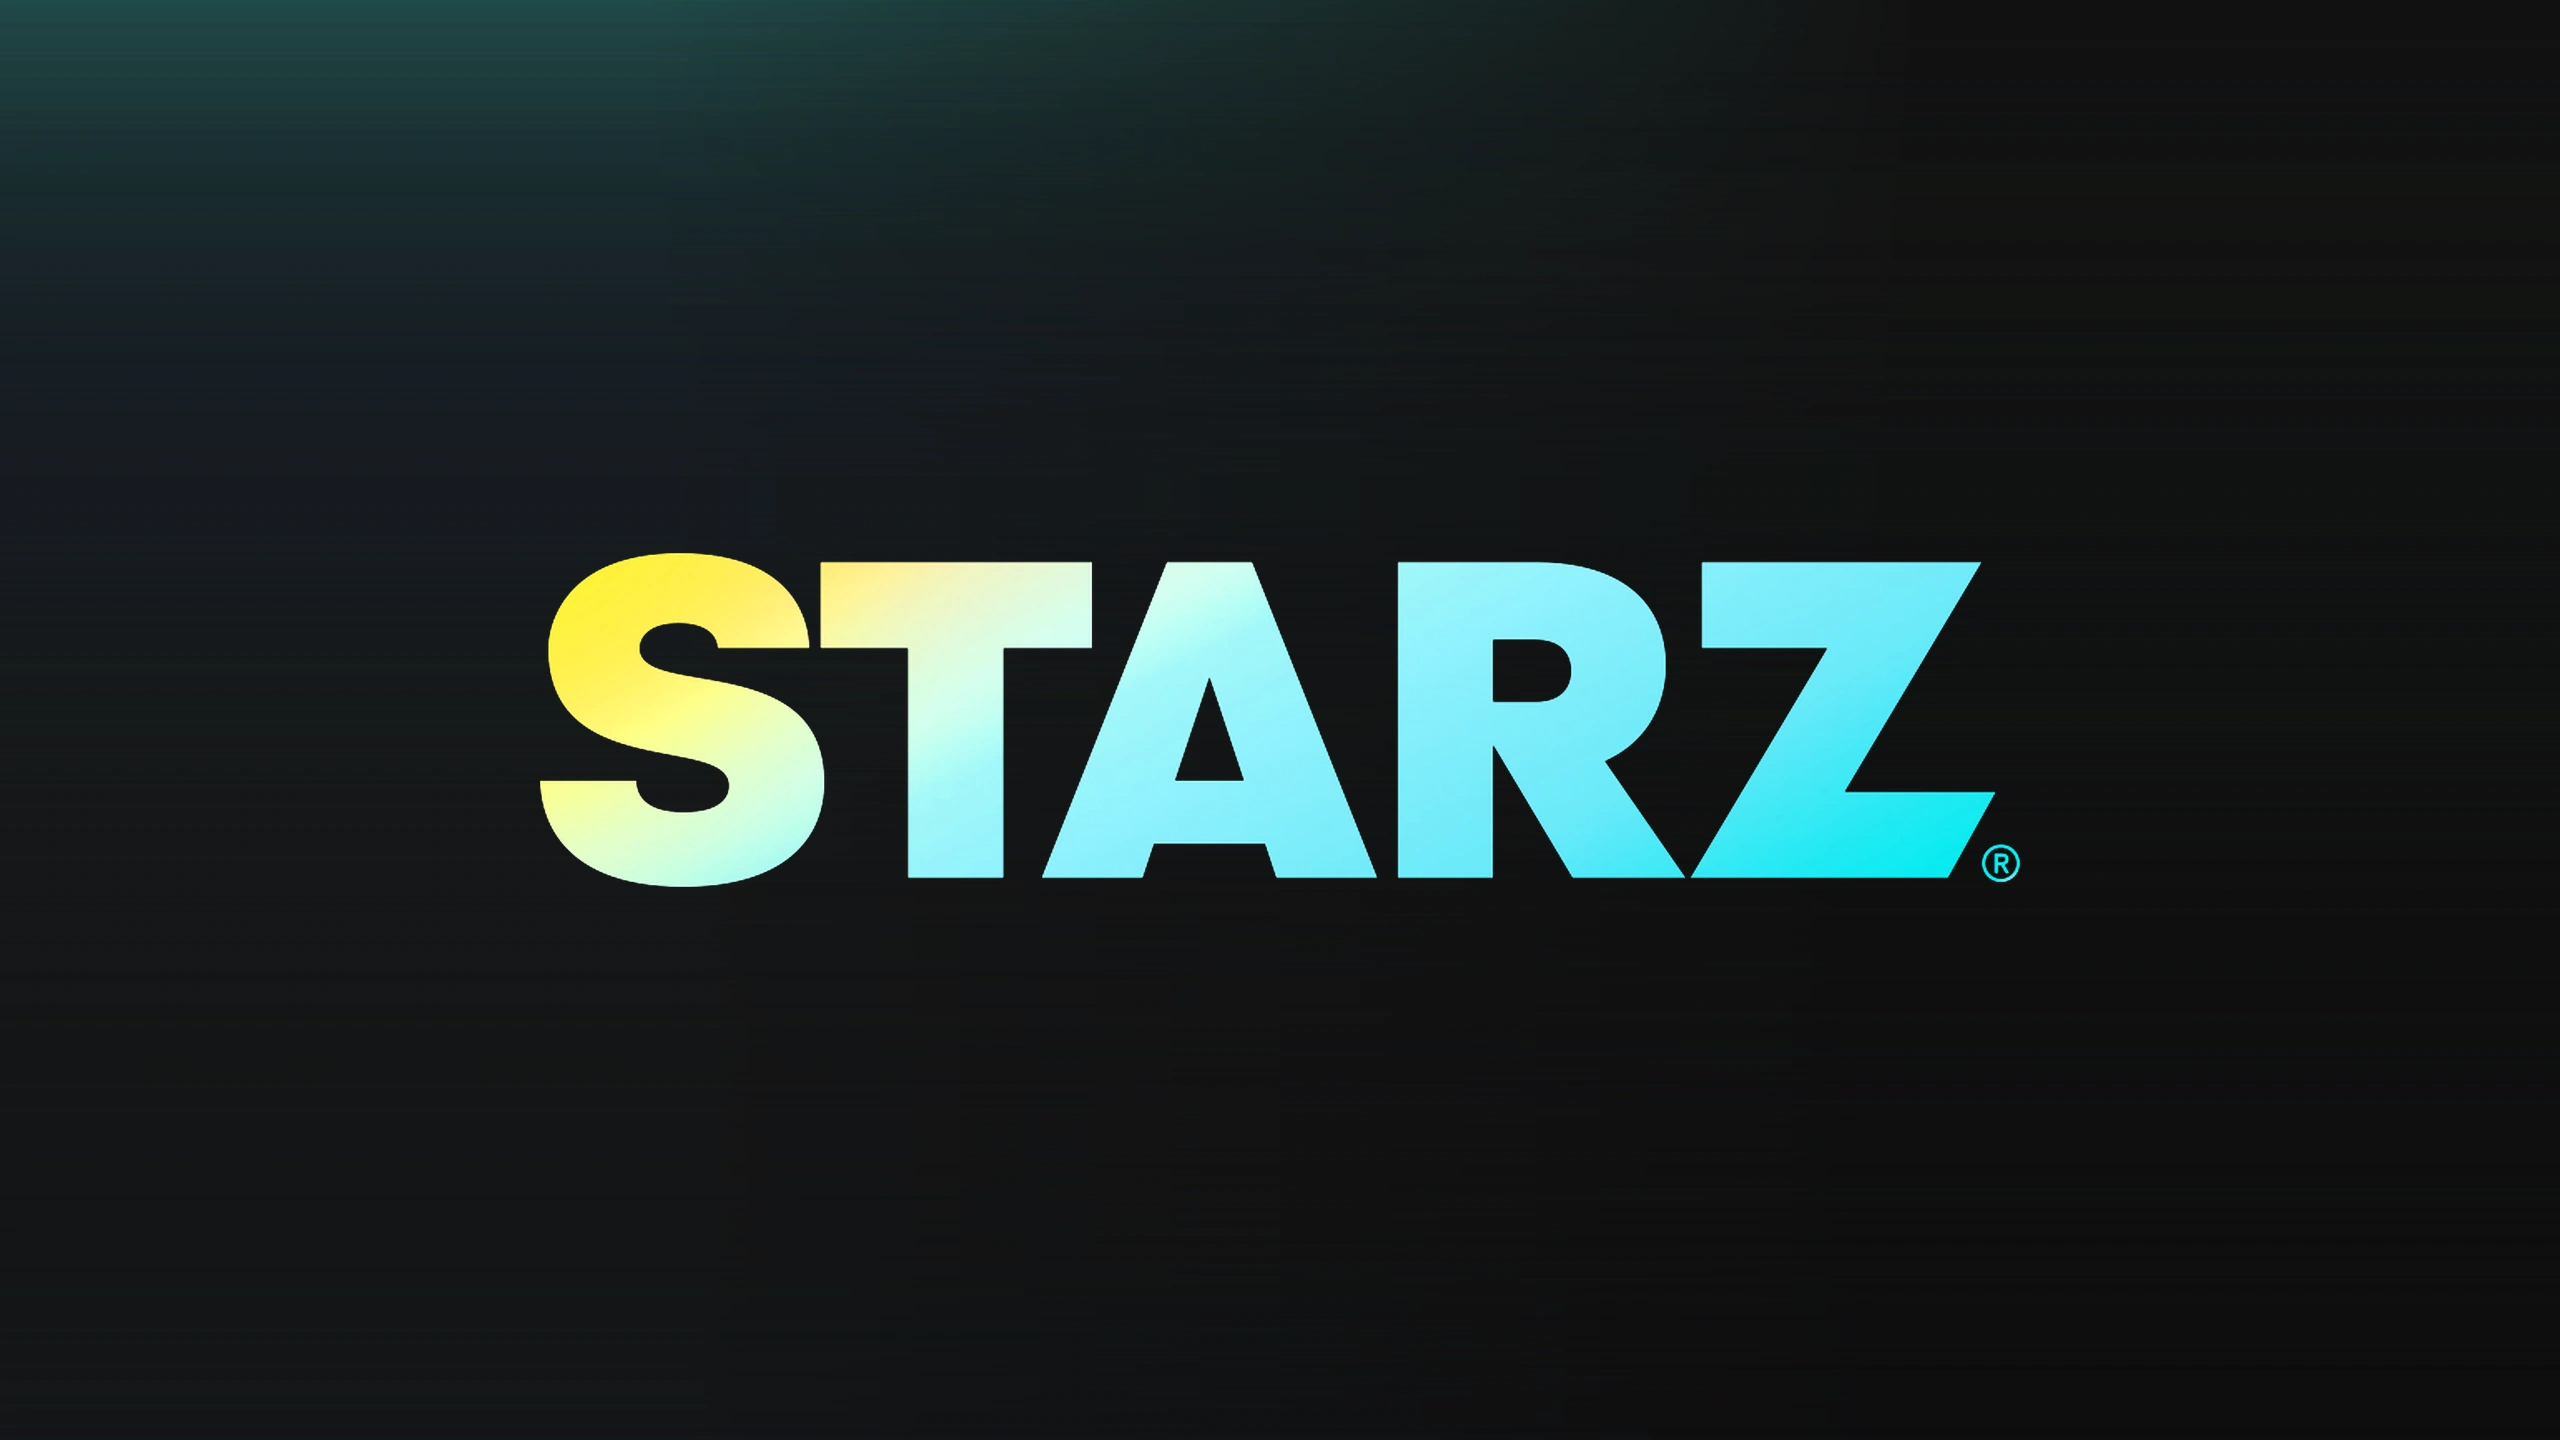
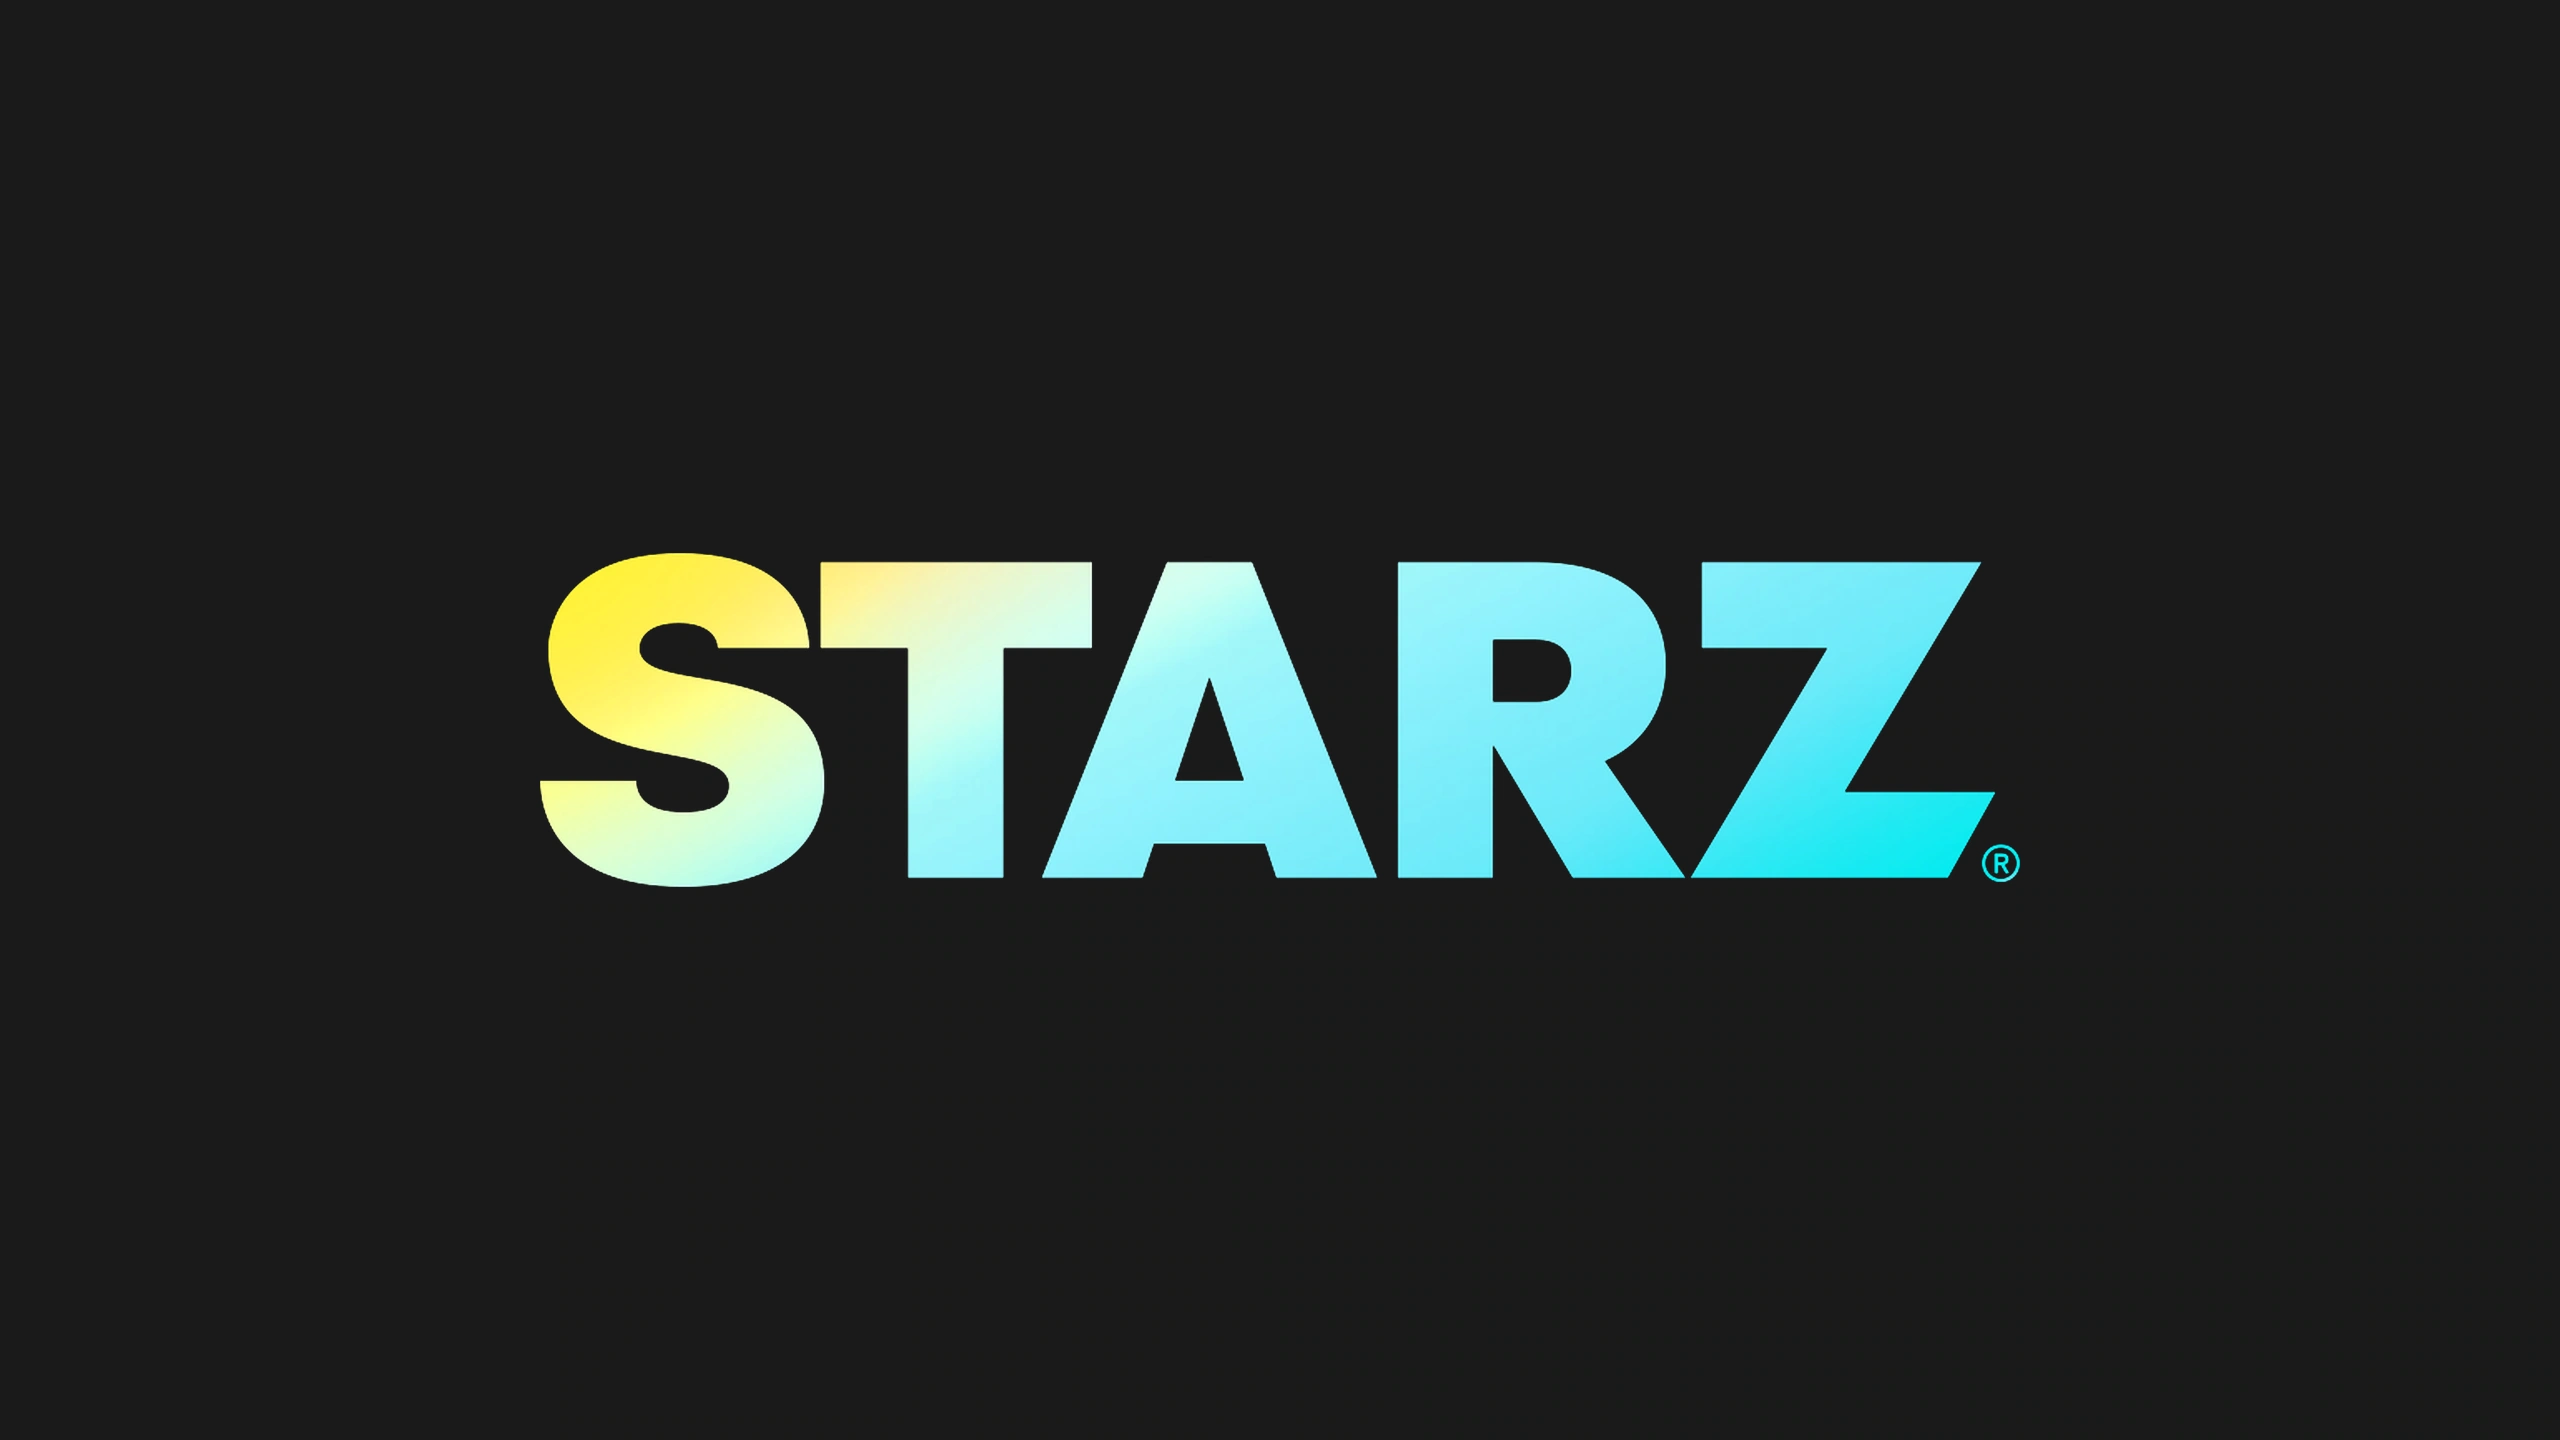
Publish approved padded streaming tiles on Shipflix grey [skip ci]

Changed region(s): [[0.0, 0.0, 0.4688, 0.125]]

diff --git a/scripts/publish_streaming_tiles.py b/scripts/publish_streaming_tiles.py
@@ -1,0 +1,24 @@
+"""Replace approved streaming tiles without regenerating any other artwork."""
+import argparse,datetime as dt,hashlib,json,shutil
+from pathlib import Path
+ROOT=Path(__file__).resolve().parents[1]
+def patch_site(site,root=ROOT):
+ site=Path(site);root=Path(root);manifest=json.loads((site/'manifest.json').read_text());assets=json.loads((root/'data/streaming-assets.json').read_text());rows=[r for r in manifest['tiles'] if r['category']=='Streaming Services']
+ assert len(manifest['tiles'])==784 and len(rows)==len(assets)==22
+ assert {r['key'] for r in rows}==set(assets)
+ replacements={}
+ for r in rows:
+  dest=site/r['tile'];assert dest.parent==site/'images' and dest.is_file()
+  source=root/assets[r['key']]['file'];data=source.read_bytes();assert data[:4]==b'RIFF' and data[8:12]==b'WEBP'
+  replacements[dest.relative_to(site).as_posix()]=source
+ # Hash every other published file so wallpaper/download/gallery preservation is verified.
+ protected={p.relative_to(site).as_posix():hashlib.sha256(p.read_bytes()).digest() for p in site.rglob('*') if p.is_file() and p.relative_to(site).as_posix() not in {*replacements,'manifest.json','status.json'}}
+ for dest,source in replacements.items():shutil.copyfile(source,site/dest)
+ for r in rows:r['tileDimensions']=[2560,1440];r['tileAsset']=assets[r['key']]
+ stamp=dt.datetime.now(dt.timezone.utc).isoformat();manifest['streamingTilesUpdatedAt']=stamp
+ (site/'manifest.json').write_text(json.dumps(manifest,ensure_ascii=False,separators=(',',':')))
+ status=json.loads((site/'status.json').read_text());status['streamingTilesUpdatedAt']=stamp;(site/'status.json').write_text(json.dumps(status,ensure_ascii=False,separators=(',',':')))
+ for path,before in protected.items():assert hashlib.sha256((site/path).read_bytes()).digest()==before,path
+ result={'replacedStreamingTiles':len(replacements),'preservedOtherFiles':len(protected),'streamingTilesUpdatedAt':stamp};print(json.dumps(result));return result
+if __name__=='__main__':
+ parser=argparse.ArgumentParser();parser.add_argument('site',type=Path);args=parser.parse_args();patch_site(args.site)

diff --git a/tests/test_streaming_patch.py b/tests/test_streaming_patch.py
@@ -1,0 +1,16 @@
+import importlib.util,json,tempfile,unittest
+from pathlib import Path
+spec=importlib.util.spec_from_file_location('tile_patch',Path(__file__).resolve().parents[1]/'scripts/publish_streaming_tiles.py');module=importlib.util.module_from_spec(spec);spec.loader.exec_module(module)
+class StreamingPatchTests(unittest.TestCase):
+ def test_only_22_tiles_change_and_all_wallpapers_downloads_and_urls_survive(self):
+  with tempfile.TemporaryDirectory() as temp:
+   root=Path(temp)/'repo';site=Path(temp)/'site';(root/'data').mkdir(parents=True);(root/'assets').mkdir();(site/'images').mkdir(parents=True);(site/'downloads').mkdir();rows=[];assets={};before={}
+   for i in range(784):
+    key=f'entry-{i}';row={'key':key,'category':'Streaming Services' if i<22 else 'Networks','tile':f'images/{key}.webp','wallpaper':f'images/{key}-background.webp'};rows.append(row)
+    for path in [row['tile'],row['wallpaper']]:(site/path).write_bytes(b'original-'+path.encode())
+    if i<22:
+     path=f'assets/{key}.webp';(root/path).write_bytes(b'RIFF0000WEBPapproved'+str(i).encode());assets[key]={'file':path}
+   (root/'data/streaming-assets.json').write_text(json.dumps(assets));(site/'manifest.json').write_text(json.dumps({'tiles':rows,'builtAt':'unchanged'}));(site/'status.json').write_text(json.dumps({'builtAt':'unchanged'}));(site/'downloads/complete.json').write_text('["unchanged shelves and sources"]');(site/'index.html').write_text('unchanged gallery')
+   before={p.relative_to(site).as_posix():p.read_bytes() for p in site.rglob('*') if p.is_file()};result=module.patch_site(site,root);after=json.loads((site/'manifest.json').read_text());self.assertEqual(result['replacedStreamingTiles'],22);self.assertEqual(after['builtAt'],'unchanged')
+   changed={path for path,data in before.items() if (site/path).read_bytes()!=data};self.assertEqual(changed,{'manifest.json','status.json',*[r['tile'] for r in rows[:22]]})
+   self.assertEqual([(r['key'],r['tile'],r['wallpaper']) for r in rows],[(r['key'],r['tile'],r['wallpaper']) for r in after['tiles']])

diff --git a/app/build.py b/app/build.py
@@ -79,8 +79,10 @@ def prepare(recipe,client,seed,previous):
  return data
 
 def copy_streaming_tile(recipe,out):
- """Bundle the original tiles so publishing never depends on their old host."""
- source=ROOT/'assets/streaming'/(recipe['key']+Path(recipe['originalCoverURL']).suffix)
+ """Use the approved bundled tiles at stable published paths."""
+ assets=load(ROOT/'data/streaming-assets.json',{})
+ entry=assets.get(recipe['key'])
+ source=ROOT/entry['file'] if entry else ROOT/'assets/streaming'/(recipe['key']+Path(recipe['originalCoverURL']).suffix)
  if source.suffix=='.webp':shutil.copy2(source,out)
  else:
   with Image.open(source) as image:image.convert('RGB').save(out,'WEBP',quality=94)

diff --git a/tests/test_pipeline.py b/tests/test_pipeline.py
@@ -53,7 +53,7 @@ class PipelineTests(unittest.TestCase):
     out=Path(tmp)/(r['key']+'.webp')
     with patch.object(Client,'image',side_effect=AssertionError('Network access is forbidden')):build.copy_streaming_tile(r,out)
     with Image.open(out) as image:image.verify()
-    source=ROOT/'assets/streaming'/(r['key']+Path(r['originalCoverURL']).suffix)
+    source=ROOT/json.loads((ROOT/'data/streaming-assets.json').read_text())[r['key']]['file']
     if source.suffix=='.webp':self.assertEqual(source.read_bytes(),out.read_bytes())
  def test_api_cache_refreshes_on_new_day_but_images_can_remain_cached(self):
   with tempfile.TemporaryDirectory() as tmp:
